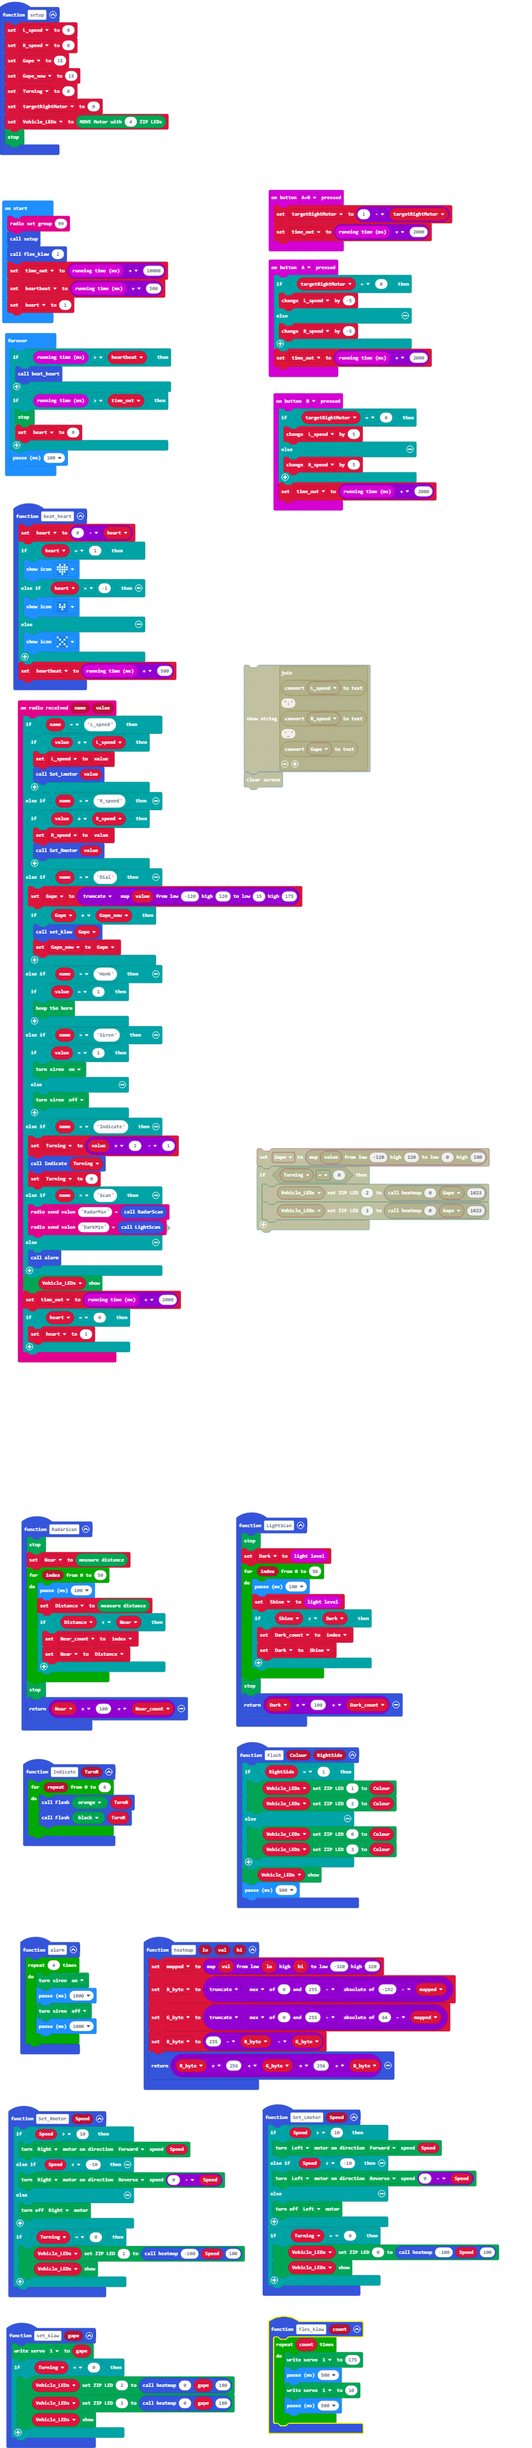
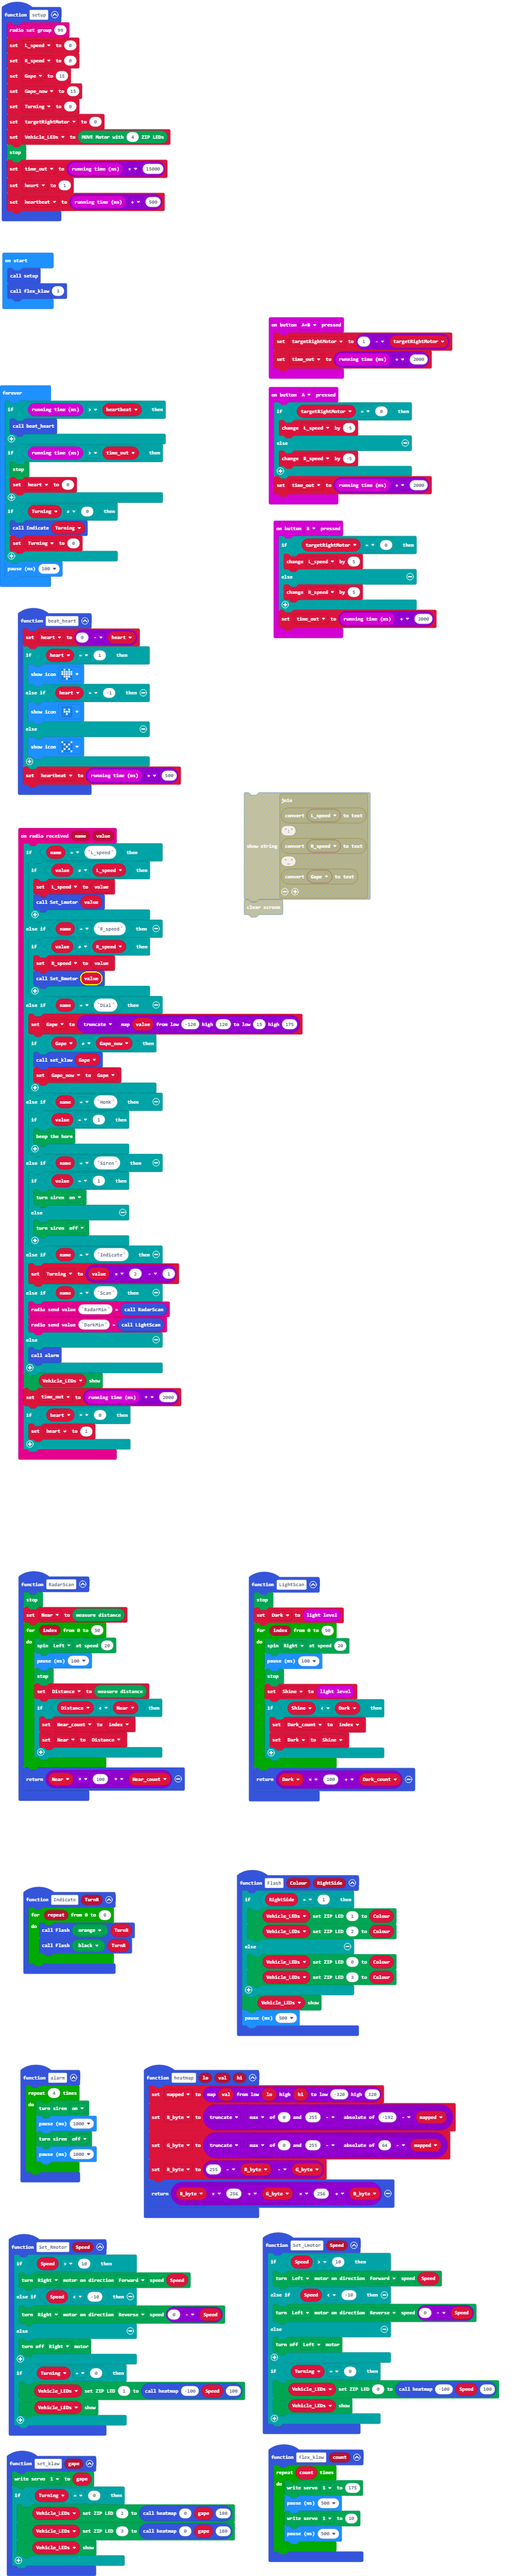
a  few fixes

diff --git a/main.ts b/main.ts
@@ -58,14 +58,15 @@ function LightScan () {
     Kitronik_Move_Motor.stop()
     Dark = input.lightLevel()
     for (let index = 0; index <= 50; index++) {
+        Kitronik_Move_Motor.spin(Kitronik_Move_Motor.SpinDirections.Right, 20)
         basic.pause(100)
+        Kitronik_Move_Motor.stop()
         Shine = input.lightLevel()
         if (Shine < Dark) {
             Dark_count = index
             Dark = Shine
         }
     }
-    Kitronik_Move_Motor.stop()
     return Dark * 100 + Dark_count
 }
 function heatmap (lo: number, val: number, hi: number) {
@@ -88,6 +89,7 @@ input.onButtonPressed(Button.B, function () {
     time_out = input.runningTime() + 2000
 })
 function setup () {
+    radio.setGroup(99)
     L_speed = 0
     R_speed = 0
     Gape = 15
@@ -96,6 +98,9 @@ function setup () {
     targetRightMotor = 0
     Vehicle_LEDs = Kitronik_Move_Motor.createMoveMotorZIPLED(4)
     Kitronik_Move_Motor.stop()
+    time_out = input.runningTime() + 15000
+    heart = 1
+    heartbeat = input.runningTime() + 500
 }
 radio.onReceivedValue(function (name, value) {
     if (name == "L_speed") {
@@ -126,8 +131,6 @@ radio.onReceivedValue(function (name, value) {
         }
     } else if (name == "Indicate") {
         Turning = value * 2 - 1
-        Indicate(Turning)
-        Turning = 0
     } else if (name == "Scan") {
         radio.sendValue("RadarMin", RadarScan())
         radio.sendValue("DarkMin", LightScan())
@@ -144,14 +147,15 @@ function RadarScan () {
     Kitronik_Move_Motor.stop()
     Near = Kitronik_Move_Motor.measure()
     for (let index = 0; index <= 50; index++) {
+        Kitronik_Move_Motor.spin(Kitronik_Move_Motor.SpinDirections.Left, 20)
         basic.pause(100)
+        Kitronik_Move_Motor.stop()
         Distance = Kitronik_Move_Motor.measure()
         if (Distance < Near) {
             Near_count = index
             Near = Distance
         }
     }
-    Kitronik_Move_Motor.stop()
     return Near * 100 + Near_count
 }
 function flex_klaw (count: number) {
@@ -187,6 +191,8 @@ function beat_heart () {
 let Near_count = 0
 let Distance = 0
 let Near = 0
+let heartbeat = 0
+let heart = 0
 let Gape_now = 0
 let Gape = 0
 let R_byte = 0
@@ -196,20 +202,14 @@ let mapped = 0
 let Dark_count = 0
 let Shine = 0
 let Dark = 0
+let time_out = 0
 let R_speed = 0
 let L_speed = 0
 let targetRightMotor = 0
 let Vehicle_LEDs: Kitronik_Move_Motor.MoveMotorZIP = null
 let Turning = 0
-let heart = 0
-let heartbeat = 0
-let time_out = 0
-radio.setGroup(99)
 setup()
-flex_klaw(2)
-time_out = input.runningTime() + 10000
-heartbeat = input.runningTime() + 500
-heart = 1
+flex_klaw(3)
 basic.forever(function () {
     if (input.runningTime() > heartbeat) {
         beat_heart()
@@ -217,6 +217,10 @@ basic.forever(function () {
     if (input.runningTime() > time_out) {
         Kitronik_Move_Motor.stop()
         heart = 0
+    }
+    if (Turning != 0) {
+        Indicate(Turning)
+        Turning = 0
     }
     basic.pause(100)
 })
